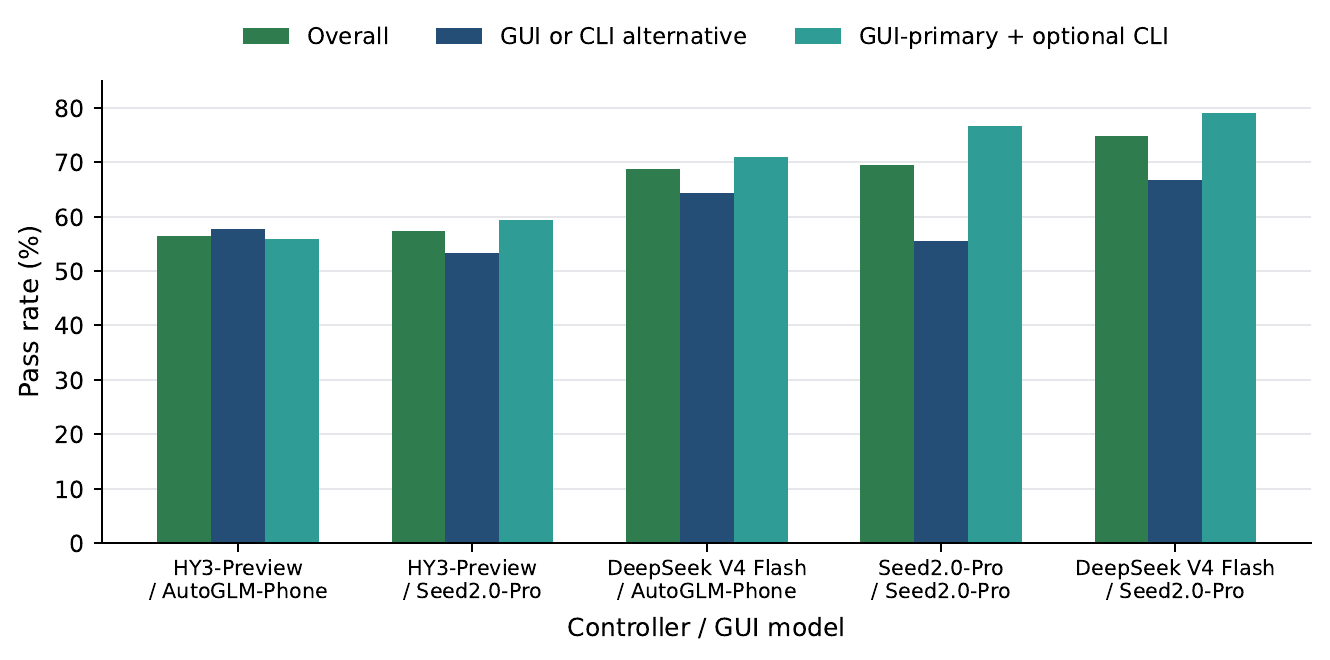
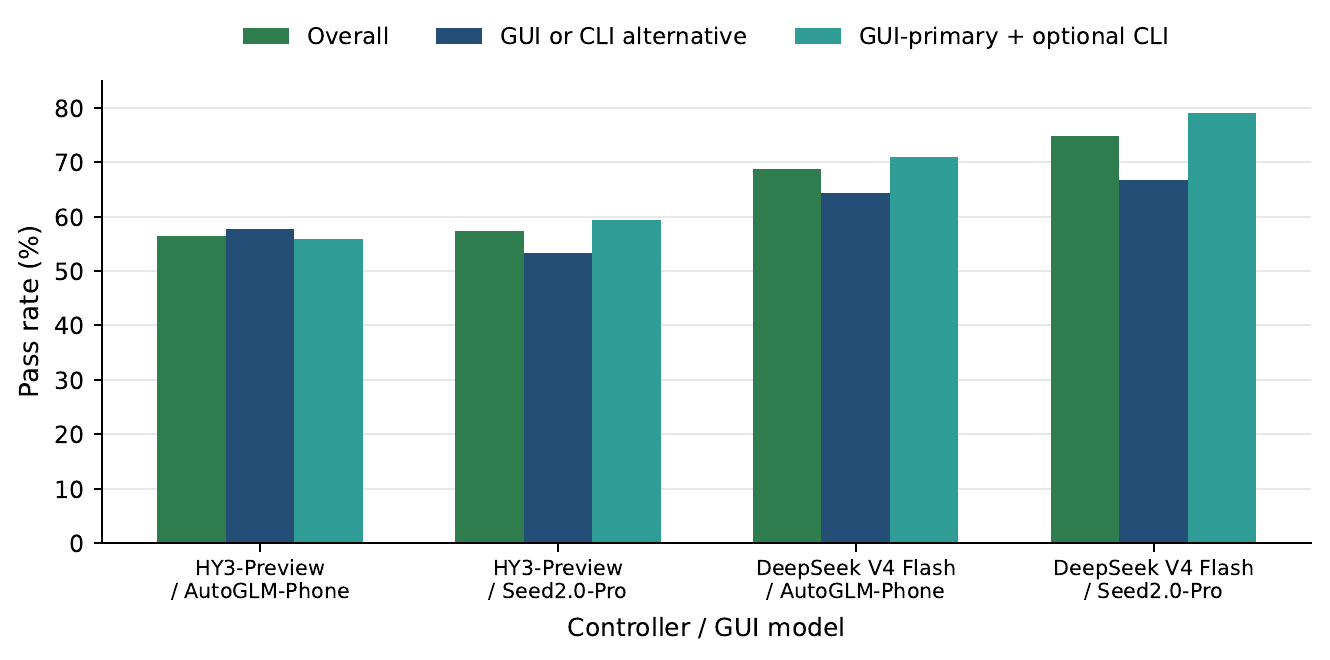
Remove Seed self-pairing from homepage results

diff --git a/index.html b/index.html
@@ -587,7 +587,6 @@
             </tr>
           </thead>
           <tbody>
-            <tr><td>Seed 2.0</td><td>Seed 2.0</td><td>51.9%</td><td>50.0%</td><td>55.6%</td></tr>
             <tr><td>HY3-preview</td><td>Seed 2.0</td><td>52.7%</td><td>52.3%</td><td>53.3%</td></tr>
             <tr><td>HY3-preview</td><td>AutoGLM-Phone</td><td>55.0%</td><td>53.5%</td><td>57.8%</td></tr>
             <tr><td>DeepSeek V4 flash</td><td>Seed 2.0</td><td><strong>61.8%</strong></td><td>59.3%</td><td><strong>66.7%</strong></td></tr>
@@ -615,7 +614,6 @@
           <tbody>
             <tr><td>DeepSeek V4</td><td>AutoGLM-Phone</td><td>80.0%</td></tr>
             <tr><td>DeepSeek V4</td><td>Seed 2.0</td><td>86.7%</td></tr>
-            <tr><td>Seed 2.0</td><td>Seed 2.0</td><td>86.7%</td></tr>
             <tr><td>HY3-preview</td><td>AutoGLM-Phone</td><td><strong>90.0%</strong></td></tr>
             <tr><td>HY3-preview</td><td>Seed 2.0</td><td><strong>90.0%</strong></td></tr>
           </tbody>